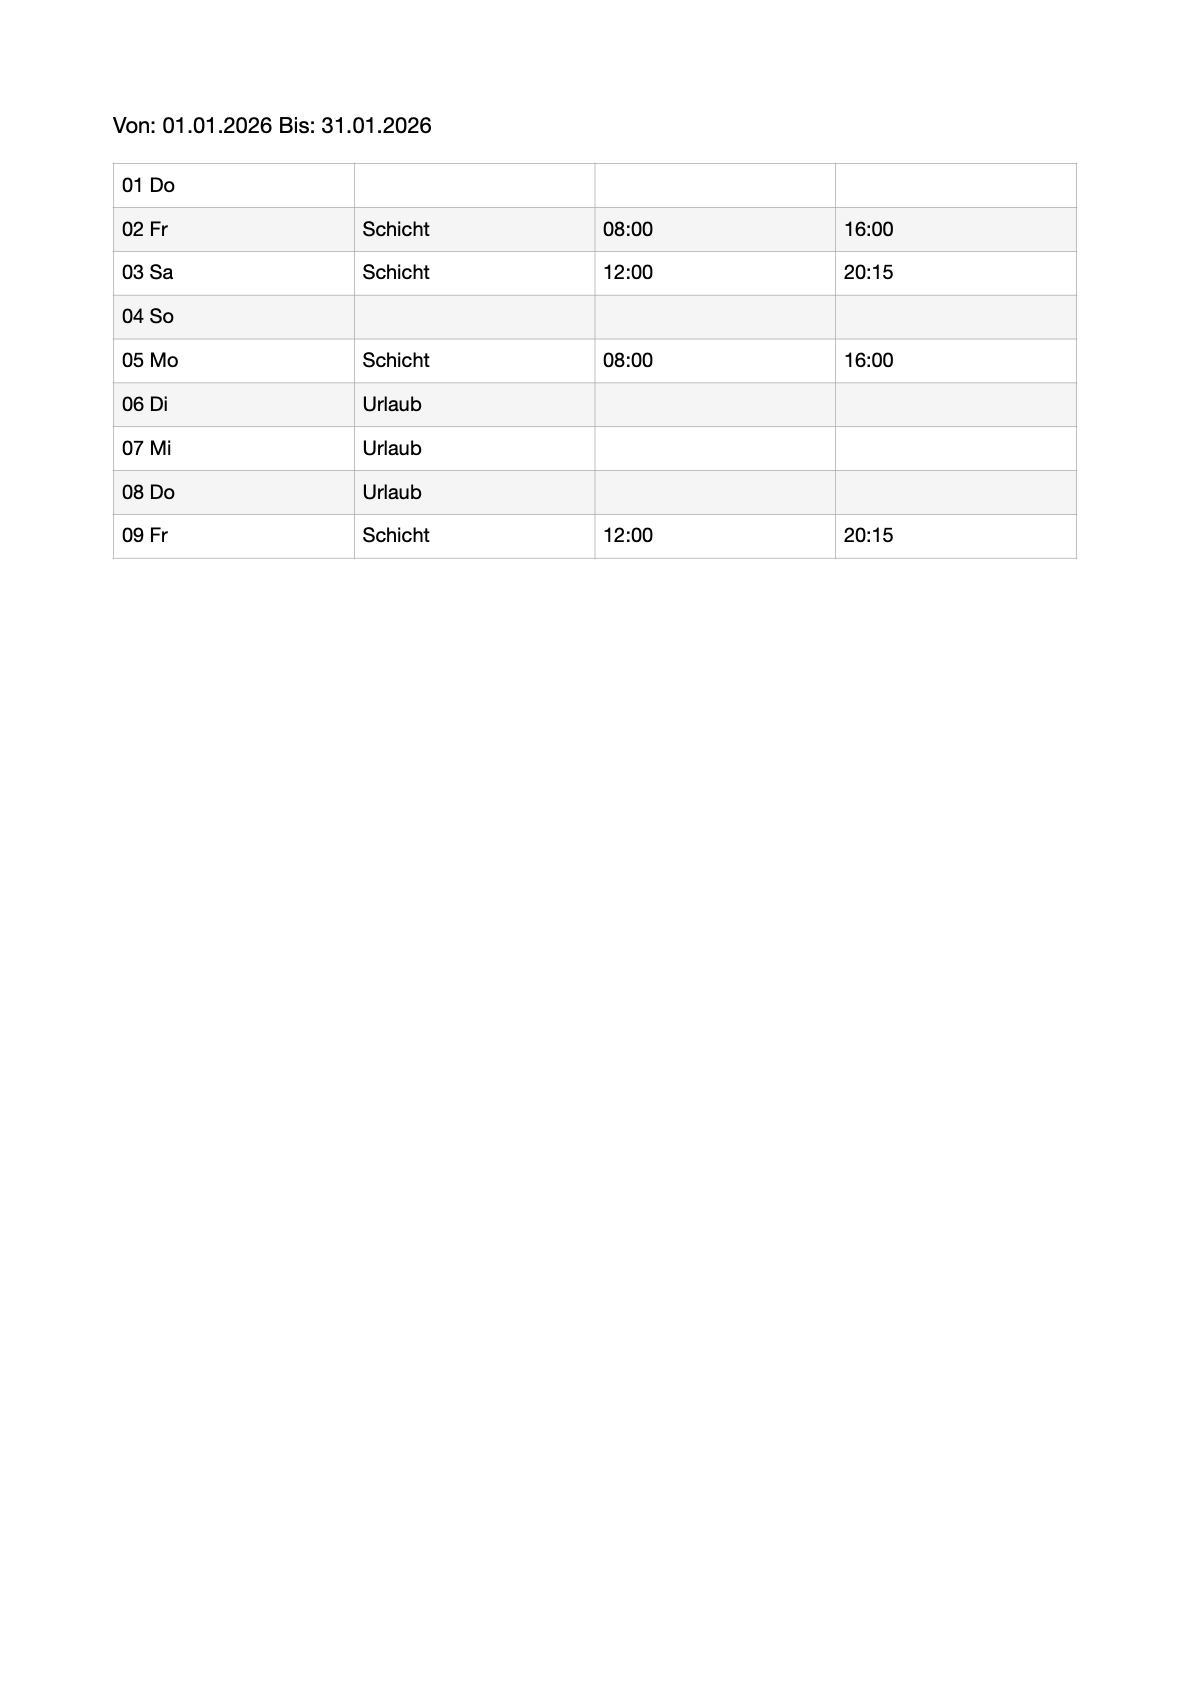
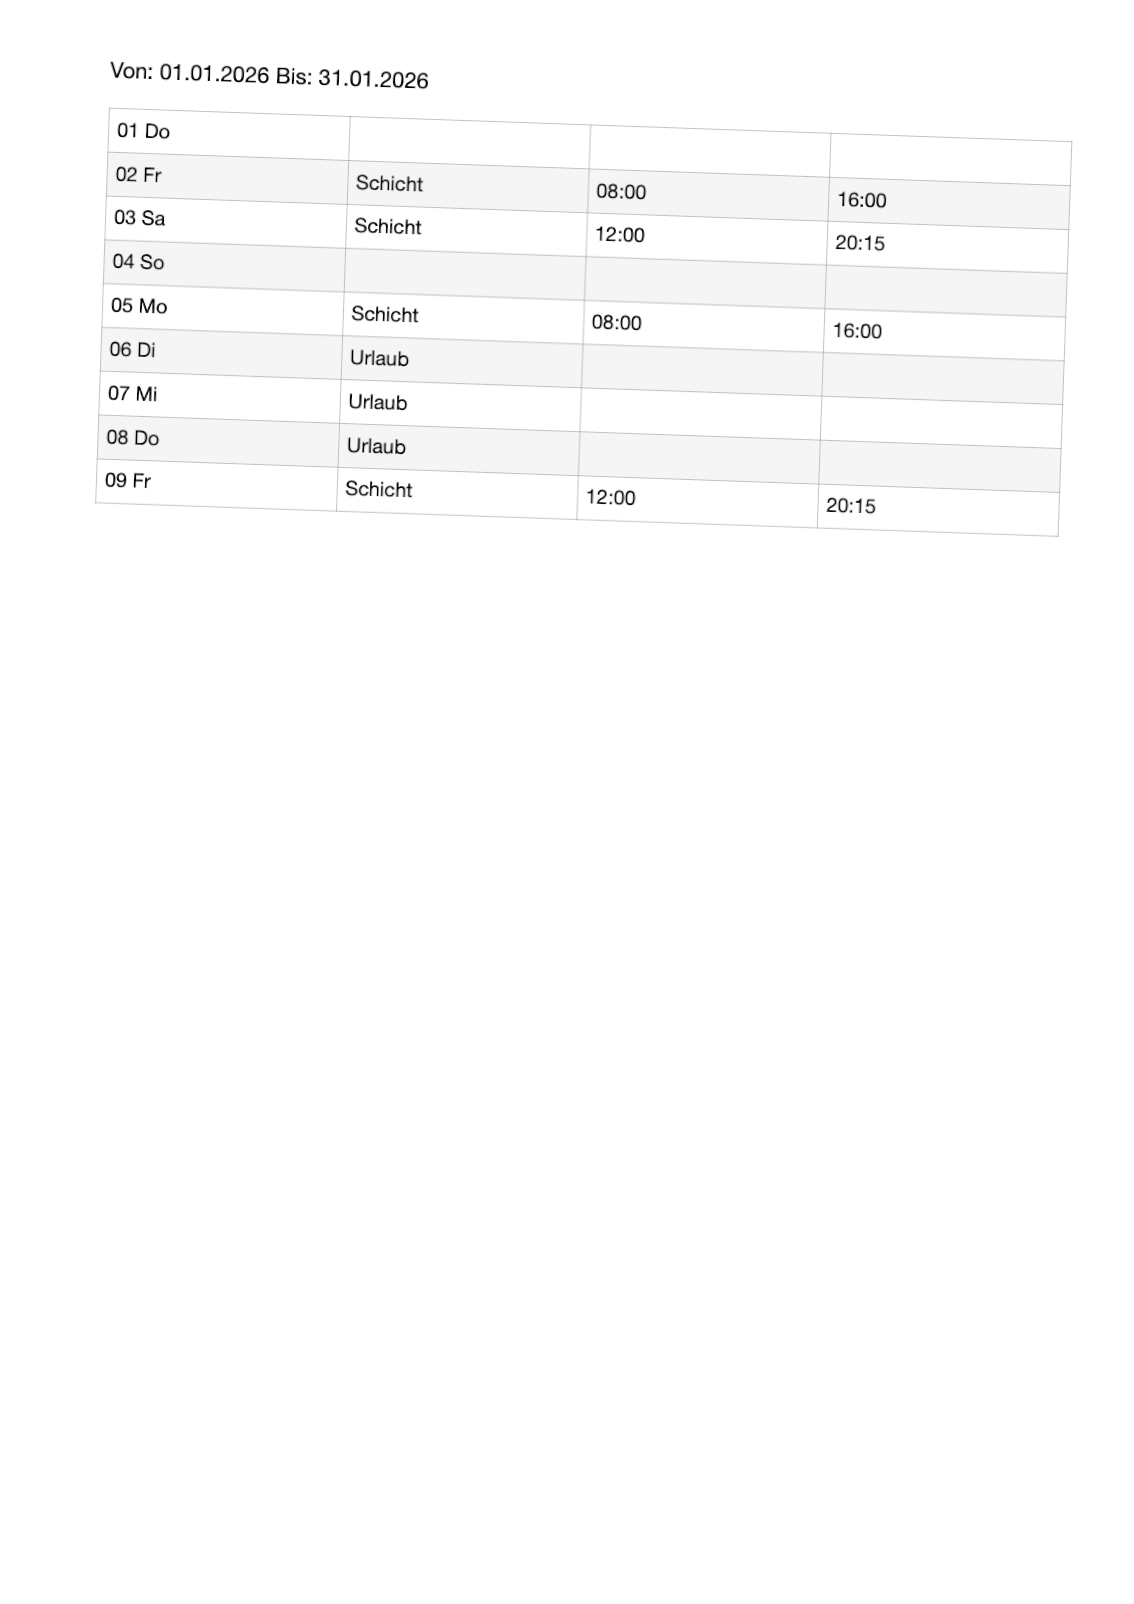
Rotate imported images by text angle (#7)

diff --git a/Shifts/Services/TextRecognitionService.swift b/Shifts/Services/TextRecognitionService.swift
@@ -1,3 +1,4 @@
+import CoreImage
 import Foundation
 import Vision
 
@@ -11,9 +12,32 @@ protocol TextRecognitionServicing {
 }
 
 struct TextRecognitionService: TextRecognitionServicing {
-  func recognize(from image: CGImage) async throws -> String {
-    let request = RecognizeTextRequest()
+  private func correctImage(_ image: CGImage) async throws -> CIImage {
+    var request = RecognizeTextRequest()
+    request.recognitionLevel = .accurate
+
     let observations = try await request.perform(on: image)
+    var totalAngle = 0.0
+    var count = 0
+    for observation in observations {
+      if observation.boundingBox.width < 0.15 {
+        continue
+      }
+      let topLeft = observation.topLeft
+      let topRight = observation.topRight
+      totalAngle += atan2(topRight.y - topLeft.y, topRight.x - topLeft.x)
+      count += 1
+    }
+    let averageAngle = totalAngle / Double(count)
+    let ciImage = CIImage(cgImage: image).transformed(
+      by: CGAffineTransform(rotationAngle: -averageAngle))
+    return ciImage
+  }
+
+  func recognize(from image: CGImage) async throws -> String {
+    var request = RecognizeTextRequest()
+    request.recognitionLevel = .accurate
+    let observations = try await request.perform(on: try await correctImage(image))
 
     let textBlocks: [RecognizedTextBlock] = observations.compactMap {
       observation -> RecognizedTextBlock? in
